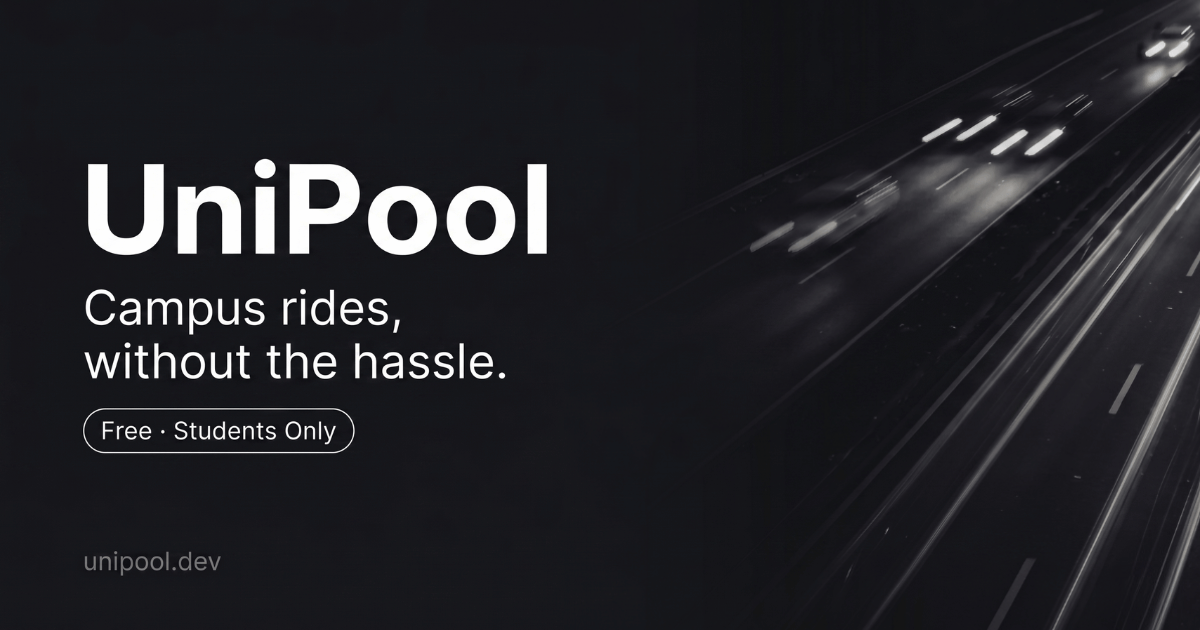
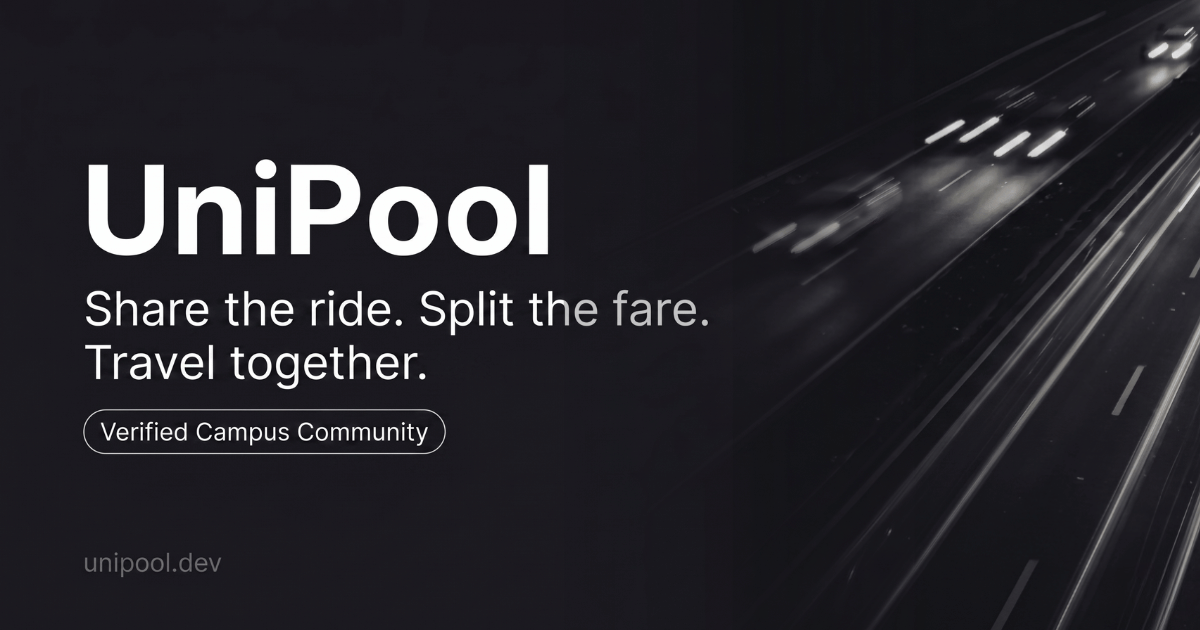
chore: update metadata

diff --git a/app/layout.tsx b/app/layout.tsx
@@ -21,7 +21,7 @@ export const metadata: Metadata = {
   metadataBase: new URL(BASE_URL),
 
   title: {
-    default: "UniPool | Safe, affordable rides for students & staff",
+    default: "UniPool | Ride Sharing for students & staff",
     template: "%s | UniPool",
   },
   description:
@@ -67,7 +67,7 @@ export const metadata: Metadata = {
     locale: "en_IN",
     url: BASE_URL,
     siteName: "UniPool",
-    title: "UniPool — Ride Sharing for University Students",
+    title: "UniPool - Ride Sharing for students & staff",
     description:
       "UniPool helps students, faculty, and staff at NIT Delhi coordinate and share rides — find travel companions, split cab or auto fares, and travel safely within the campus community.",
     images: [
@@ -75,7 +75,7 @@ export const metadata: Metadata = {
         url: "/og-image.png",
         width: 1200,
         height: 630,
-        alt: "UniPool — Ride sharing for university students, launched at NIT Delhi.",
+        alt: "UniPool - Ride sharing for students & staff, launched at NIT Delhi.",
       },
     ],
   },